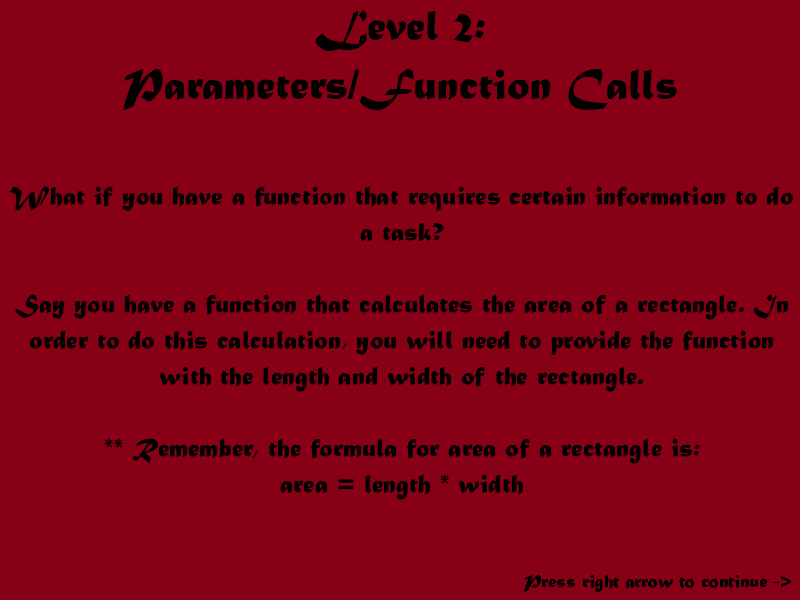
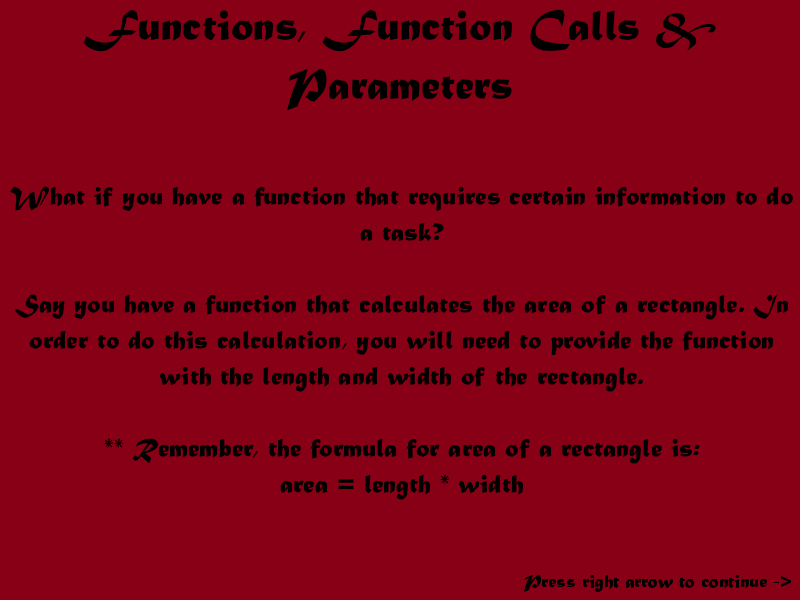
added new level description pages, they are formatted to match the rest of the screens, edited first page of each master level tutorial so that it does not seem redundant after the level description, adjusted the tutorial list in main accordingly to reflect changes mentioned in description pages

Changed region(s): [[0.0938, 0.0, 0.9062, 0.09], [0.1562, 0.12, 0.8438, 0.18]]

diff --git a/src/main.py b/src/main.py
@@ -310,11 +310,11 @@ class LevelMenu(PlainMenu):
     ["level400", "level401", "level402", "level403", "level404"],
     ["level500", "level501", "level502", "level503", "level504"]   ]
   tutList = [
-    ["../assets/intro_screen2.png", "../assets/level1description.png", "../assets/masterLevel1tutorial.png", "../assets/masterLevel1tutorial1.png", "../assets/masterLevel1tutorial2.png"],
-    ["../assets/intro_screen2.png", "../assets/level2description.png", "../assets/masterLevel2tutorial.png", "../assets/masterLevel2tutorial1.png"],
-    ["../assets/intro_screen2.png", "../assets/level3description.png", "../assets/masterLevel3tutorial.png", "../assets/masterLevel3tutorial1.png" ],
-    ["../assets/intro_screen2.png", "../assets/level4description.png" , "../assets/masterLevel1tutorial4.png", "../assets/masterLevel1tutorial4b.png"  ],
-    ["../assets/intro_screen2.png", "../assets/level5description.png", "../assets/masterLevel1tutorial5.png", "../assets/masterLevel1tutorial5b.png"]
+    ["../assets/intro_screen2.png", "../assets/level01description.png", "../assets/masterLevel1tutorial.png", "../assets/masterLevel1tutorial1.png", "../assets/masterLevel1tutorial2.png"],
+    ["../assets/intro_screen2.png", "../assets/level02description.png", "../assets/masterLevel2tutorial.png", "../assets/masterLevel2tutorial1.png"],
+    ["../assets/intro_screen2.png", "../assets/level03description.png", "../assets/masterLevel3tutorial.png", "../assets/masterLevel3tutorial1.png" ],
+    ["../assets/intro_screen2.png", "../assets/level04description.png" , "../assets/masterLevel1tutorial4.png", "../assets/masterLevel1tutorial4b.png"  ],
+    ["../assets/intro_screen2.png", "../assets/level05description.png", "../assets/masterLevel1tutorial5.png", "../assets/masterLevel1tutorial5b.png"]
   ] # list of tutorials for each levels, each sublist contains individual image files for that level's tutorials
 
   def __init__(self, ui):
